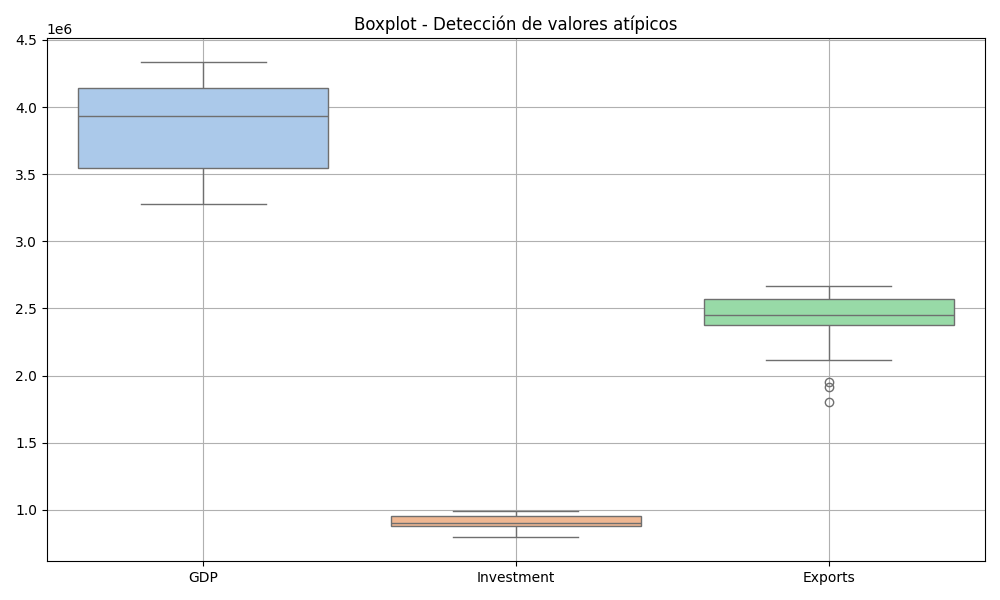
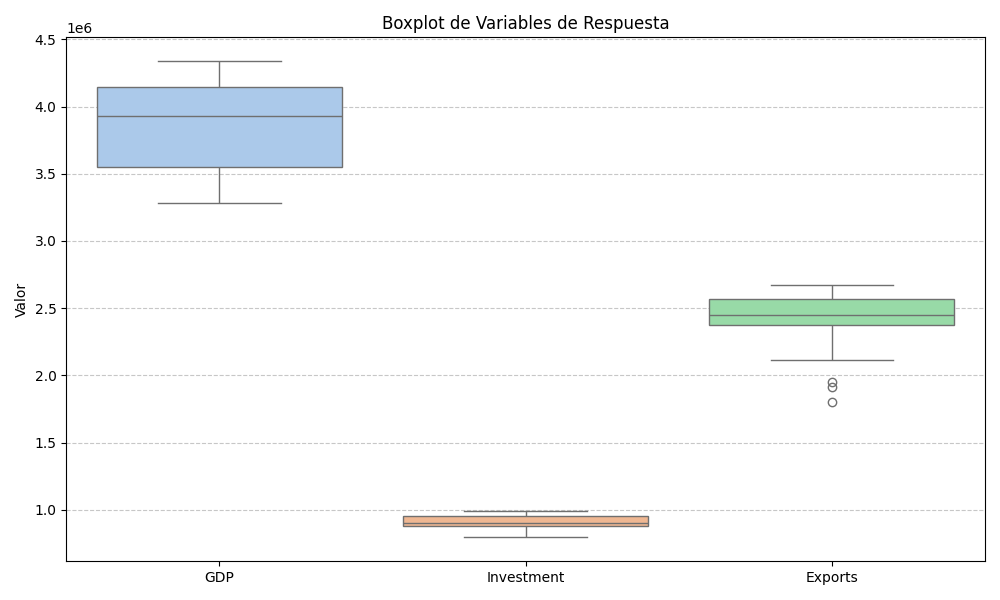
candidato version final

diff --git a/pia.py b/pia.py
@@ -7,119 +7,193 @@ from scipy.linalg import sqrtm
 from statsmodels.stats.diagnostic import het_breuschpagan
 from numpy.polynomial.polynomial import polyvander
 
-# cargar los datos
+
+pd.set_option("display.max_colwidth", None)
+pd.set_option('display.width', 120)
+pd.set_option('display.precision', 4)
+
+# cargar datos
 datos = pd.read_excel(open('Dataset.xlsx', 'rb'), sheet_name='Dataset')
-
-# ordenar los datos por año y cuatrimestre
 datos = datos.sort_values(by=['Año', 'Cuatrimestre']).reset_index(drop=True)
+datos['tiempo_norm'] = np.linspace(1/len(datos), 1, len(datos))
+datos['tiempo_seq'] = np.arange(1, len(datos) + 1)
 
-# crear la variable tiempo normalizada en el intervalo [0,1]
-datos['tiempo'] = np.linspace(1/len(datos), 1, len(datos))
-
-# seleccionar las variables de respuesta
-respuesta = datos[['GDP', 'Investment', 'Exports']]
+variables_respuesta_nombres = ['GDP', 'Investment', 'Exports']
+respuesta_df = datos[variables_respuesta_nombres]
 
 # Boxplot
 plt.figure(figsize=(10, 6))
-sns.boxplot(data=respuesta, palette="pastel")
-plt.title("Boxplot - Detección de valores atípicos")
-plt.grid(True)
+sns.boxplot(data=respuesta_df, palette="pastel")
+plt.title("Boxplot de Variables de Respuesta")
+plt.ylabel("Valor")
+plt.grid(axis='y', linestyle='--', alpha=0.7)
 plt.tight_layout()
 plt.savefig("boxplot_atipicos.png")
+plt.close()
 
-# matriz de correlacion
-matriz_correlacion = respuesta.corr()
+# Matriz de correlacion
+matriz_correlacion = respuesta_df.corr()
+plt.figure(figsize=(8, 6))
+sns.heatmap(matriz_correlacion, annot=True, cmap="coolwarm", fmt=".2f", linewidths=.5)
+plt.title("Matriz de Correlación de Variables de Respuesta")
+plt.tight_layout()
+plt.savefig("matriz_correlacion.png")
+plt.close()
 print("\nMatriz de correlacion:\n", matriz_correlacion, "\n")
 
-# matriz de dispersion
-sns.pairplot(respuesta, diag_kind='kde')
-plt.savefig("matriz_dispersion.png")
 
-# graficar las series de tiempo
-variables = ['Exports', 'Investment', 'GDP']
-titulos = ['Exports', 'Investment', 'GDP']
-
-fig, ejes = plt.subplots(nrows=3, ncols=1, figsize=(10, 7), sharex=True)
-for i, var in enumerate(variables):
-    ejes[i].plot(datos['tiempo'], datos[var], marker='o', linestyle='-', color='black', markersize=5, markerfacecolor='white')
-    ejes[i].set_ylabel(titulos[i])
-    ejes[i].grid(False)
-ejes[-1].set_xlabel("Periodo")
+# Matriz de dispersión
+pair_plot = sns.pairplot(respuesta_df, diag_kind='kde', plot_kws={'alpha': 0.6, 's': 50, 'edgecolor': 'k'})
+pair_plot.fig.suptitle("Matriz de Dispersión de Variables de Respuesta", y=1.02, fontsize=16)
 plt.tight_layout()
+plt.savefig("matriz_dispersion.png")
+plt.close()
+
+# Graficar las series de tiempo
+fig, ejes = plt.subplots(nrows=len(variables_respuesta_nombres), ncols=1, figsize=(12, 8), sharex=True)
+for i, var_nombre_plot in enumerate(variables_respuesta_nombres):
+    ejes[i].plot(datos['tiempo_norm'], datos[var_nombre_plot], marker='o', linestyle='-', color='dodgerblue', markersize=4, markerfacecolor='lightblue', linewidth=1.5)
+    ejes[i].set_ylabel(var_nombre_plot)
+    ejes[i].grid(True, linestyle=':', alpha=0.6)
+ejes[-1].set_xlabel("Periodo Normalizado (Tiempo)")
+fig.suptitle("Series Temporales de Variables de Respuesta", fontsize=16)
+plt.tight_layout(rect=[0, 0, 1, 0.96])
 plt.savefig("series_temporales.png", dpi=300)
+plt.close()
 
-# almacenar los resultados
-resultados = {'Variable': [], 'Grado': [], 'AIC': [], 'KS': [], 'BP_pvalue': [], 'Coef_pvalores': []}
+def calcular_residuos_recursivos_univariado(X_design, y_target, min_obs_para_inicio):
+    residuos_rec = []
+    n_obs, n_params = X_design.shape
+    start_j = max(n_params, min_obs_para_inicio)
 
-variables = ['GDP', 'Investment', 'Exports']
+    if start_j >= n_obs:
+        return np.array([])
 
-for variable in variables:
-    y = datos[variable].values
+    for j_idx_actual_obs in range(start_j, n_obs):
+        X_subset_ajuste = X_design[:j_idx_actual_obs, :]
+        y_subset_ajuste = y_target[:j_idx_actual_obs]
+        x_actual_para_pred = X_design[j_idx_actual_obs, :].reshape(1, -1)
+        y_actual_obs = y_target[j_idx_actual_obs]
 
-    for grado in range(0, 4):
-        # Crear diseño polinomial
-        X_poly = polyvander(datos['tiempo'].values, grado)
-        modelo = sm.OLS(y, X_poly).fit()
+        if X_subset_ajuste.shape[0] < n_params:
+            continue
 
-        # AIC
-        aic = modelo.aic
+        modelo_subset = sm.OLS(y_subset_ajuste, X_subset_ajuste).fit(disp=0)
+        y_pred_val = modelo_subset.predict(x_actual_para_pred)[0]
 
-        # Breusch-Pagan
-        X_poly_const = sm.add_constant(X_poly, has_constant='add')
-        bp_test = het_breuschpagan(modelo.resid, X_poly_const)
-        bp_pval = bp_test[1]
+        pinv_XsubsetT_Xsubset = np.linalg.pinv(X_subset_ajuste.T @ X_subset_ajuste)
+        leverage_term_matrix = x_actual_para_pred @ pinv_XsubsetT_Xsubset @ x_actual_para_pred.T
+        e_jj_val = np.sqrt(1 + leverage_term_matrix.item())
 
-        # Pruebas t
-        pvals = modelo.pvalues
+        u_j_val = (y_actual_obs - y_pred_val) / e_jj_val
+        residuos_rec.append(u_j_val)
 
-        # Calcular residuos recursivos
-        def residuos_recursivos_general(X, y):
-            residuos = []
-            for j in range(grado + 2, len(X)):
-                X_j = X[:j]
-                y_j = y[:j]
-                modelo_j = sm.OLS(y_j, X_j).fit()
-                y_pred = modelo_j.predict(X[j])
-                e_jj = np.sqrt(1 + X[j] @ np.linalg.pinv(X_j.T @ X_j) @ X[j].T)
-                u_j = (y[j] - y_pred) / e_jj
-                residuos.append(u_j)
-            return np.array(residuos)
+    return np.array(residuos_rec)
 
-        residuos = residuos_recursivos_general(X_poly, y)
-        if len(residuos) < 2:
-            continue  # evitar errores por tamaño
-        # KS multivariado univariado (por variable)
-        Q = np.cumsum(residuos)
-        sigma = np.std(residuos)
-        ks_stat = np.max(np.abs(Q / sigma))
+# Analisis de modelos
+resultados_consolidados_por_grado = []
+detalles_univariados_todos_modelos = []
 
-        resultados['Variable'].append(variable)
-        resultados['Grado'].append(grado)
-        resultados['AIC'].append(aic)
-        resultados['KS'].append(ks_stat)
-        resultados['BP_pvalue'].append(bp_pval)
-        resultados['Coef_pvalores'].append(pvals.tolist())
+grados_a_probar = [0, 2, 3, 4]
+tiempo_para_poly_ajuste = datos['tiempo_seq'].values
 
+for grado_actual_comun in grados_a_probar:
+    X_matriz_poly_comun = polyvander(tiempo_para_poly_ajuste, grado_actual_comun)
+    n_params_actual = X_matriz_poly_comun.shape[1]
 
-# Mostrar datos
-df_resultados = pd.DataFrame(resultados)
-df_resultados['Coef_pvalores'] = df_resultados['Coef_pvalores'].apply(
-    lambda lista: [round(p, 4) for p in lista]
-)
+    residuos_recursivos_para_U = []
+    aic_sum_para_grado_actual = 0.0
+    bp_pvalues_grado_actual_lista = []
 
-pd.set_option("display.max_colwidth", None)
-for var in variables:
-    print(f"\n{'='*60}")
-    print(f"Resultados para la variable: {var}")
-    print(f"{'='*60}")
+    for var_nombre_actual in variables_respuesta_nombres:
+        y_serie_actual = datos[var_nombre_actual].values
+        modelo_ols_univar = sm.OLS(y_serie_actual, X_matriz_poly_comun).fit()
 
-    tabla_var = df_resultados[df_resultados['Variable'] == var][
-        ['Grado', 'AIC', 'KS', 'BP_pvalue', 'Coef_pvalores']
-    ].reset_index(drop=True)
+        aic_univar = modelo_ols_univar.aic
+        aic_sum_para_grado_actual += aic_univar
 
-    print(tabla_var.to_string(index=False))
+        bp_lm_pvalor_univar = np.nan
+        if X_matriz_poly_comun.shape[1] > 1:
+            bp_test_stats = het_breuschpagan(modelo_ols_univar.resid, modelo_ols_univar.model.exog)
+            bp_lm_pvalor_univar = bp_test_stats[1]
+        bp_pvalues_grado_actual_lista.append(bp_lm_pvalor_univar)
 
+        coef_pvals_univar = modelo_ols_univar.pvalues
 
+        detalles_univariados_todos_modelos.append({
+            "Variable": var_nombre_actual,
+            "Grado_Polinomio": grado_actual_comun,
+            "AIC_Univar": round(aic_univar, 2),
+            "BP_Univar": round(bp_lm_pvalor_univar, 4) if not np.isnan(bp_lm_pvalor_univar) else np.nan,
+            "Coef_Pvalores_Univar": [round(p, 4) for p in coef_pvals_univar]
+        })
+
+        res_rec_univar = calcular_residuos_recursivos_univariado(X_matriz_poly_comun, y_serie_actual, min_obs_para_inicio=n_params_actual)
+        if res_rec_univar.size > 0:
+            residuos_recursivos_para_U.append(res_rec_univar)
+
+    ks_multivariado_calculada = np.nan
+    num_res_rec_efectivos_ks = 0
+
+    if len(residuos_recursivos_para_U) == len(variables_respuesta_nombres):
+        residuos_validos_para_U = [res_arr for res_arr in residuos_recursivos_para_U if res_arr.size > 0]
+        if len(residuos_validos_para_U) == len(variables_respuesta_nombres):
+            min_len_res = min(len(res_arr) for res_arr in residuos_validos_para_U)
+            if min_len_res >= 2:
+                num_res_rec_efectivos_ks = min_len_res
+                U_matrix = np.column_stack([res_arr[:min_len_res] for res_arr in residuos_validos_para_U])
+
+                Sigma_hat = np.cov(U_matrix.T)
+                if Sigma_hat.ndim == 0:
+                    Sigma_hat_inv_sqrt = 1/np.sqrt(Sigma_hat) if Sigma_hat > 1e-9 else np.array([[np.inf]])
+                elif np.linalg.det(Sigma_hat) < 1e-12:
+                    Sigma_hat_inv_sqrt = np.linalg.pinv(sqrtm(Sigma_hat))
+                else:
+                    Sigma_hat_inv_sqrt = np.linalg.inv(sqrtm(Sigma_hat))
+
+                Q_matrix = np.cumsum(U_matrix, axis=0)
+
+                if Sigma_hat_inv_sqrt.ndim < 2 and Sigma_hat_inv_sqrt.size == 1:
+                    Q_estandar_matrix = Q_matrix * Sigma_hat_inv_sqrt.item()
+                else:
+                    Q_estandar_matrix = Q_matrix @ Sigma_hat_inv_sqrt
+
+                normas_l2_por_tiempo = np.linalg.norm(Q_estandar_matrix, axis=1)
+                if normas_l2_por_tiempo.size > 0:
+                    ks_multivariado_calculada = np.max(normas_l2_por_tiempo)
+
+    resultados_consolidados_por_grado.append({
+        "Grado_Polinomio": grado_actual_comun,
+        "AIC_Agregado (Suma)": round(aic_sum_para_grado_actual, 2),
+        "KS_Multivariada": round(ks_multivariado_calculada, 4) if not np.isnan(ks_multivariado_calculada) else np.nan,
+        "Num_Res_Rec_KS": num_res_rec_efectivos_ks,
+        "BP_Univar (GDP,Inv,Exp)": [round(p,4) if not np.isnan(p) else np.nan for p in bp_pvalues_grado_actual_lista]
+    })
+
+# Resultados
+print("\nRESULTADOS CONSOLIDADOS POR GRADO POLINÓMICO")
+df_resultados_finales_grado = pd.DataFrame(resultados_consolidados_por_grado)
+if not df_resultados_finales_grado.empty:
+    df_resultados_finales_grado = df_resultados_finales_grado.set_index("Grado_Polinomio")
+print(df_resultados_finales_grado.to_string())
+
+print("\nDETALLES DE AJUSTE UNIVARIADO (AIC, BP, Coef. Significancia)")
+df_detalles_univar_final = pd.DataFrame(detalles_univariados_todos_modelos)
+if not df_detalles_univar_final.empty:
+    for var_nombre_actual_loop in variables_respuesta_nombres:
+        print(f"\n  Detalles para Variable: {var_nombre_actual_loop}")
+        tabla_var_detalle = df_detalles_univar_final[df_detalles_univar_final['Variable'] == var_nombre_actual_loop][
+            ['Grado_Polinomio', 'AIC_Univar', 'BP_Univar', 'Coef_Pvalores_Univar']
+        ].set_index('Grado_Polinomio')
+
+        def format_pvals(pvals_list_format):
+            if not isinstance(pvals_list_format, list): return "N/A"
+            return ", ".join([f"B{i}={p:.3f}{'*' if p < 0.05 else ''}" for i, p in enumerate(pvals_list_format)])
+
+        tabla_var_detalle['Coef_Pvalores_Univar'] = tabla_var_detalle['Coef_Pvalores_Univar'].apply(format_pvals)
+        print(tabla_var_detalle.to_string())
+else:
+    print("No se generaron resultados detallados univariados.")
 
 
 
